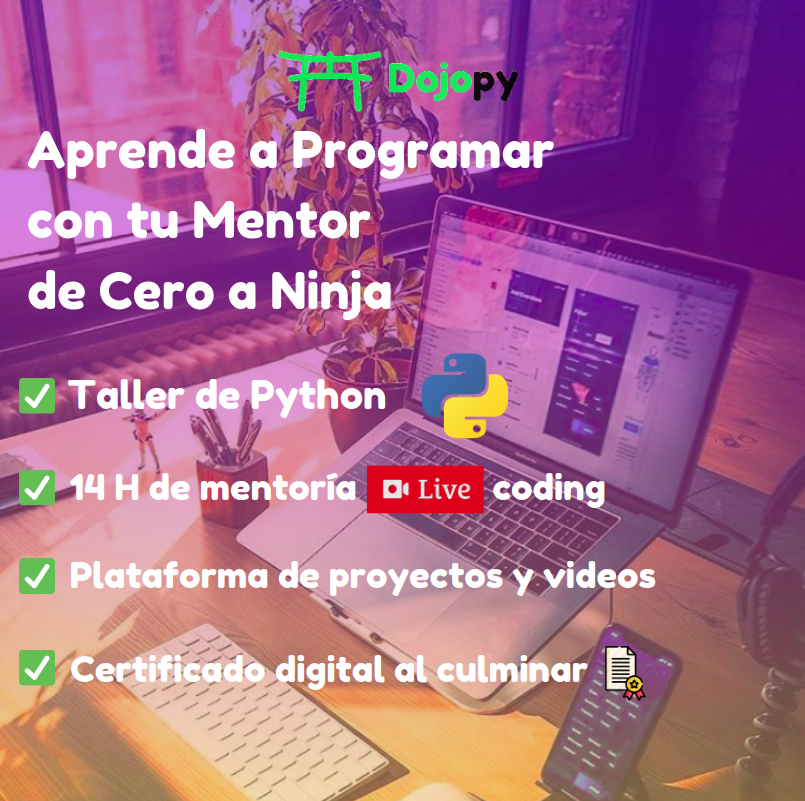
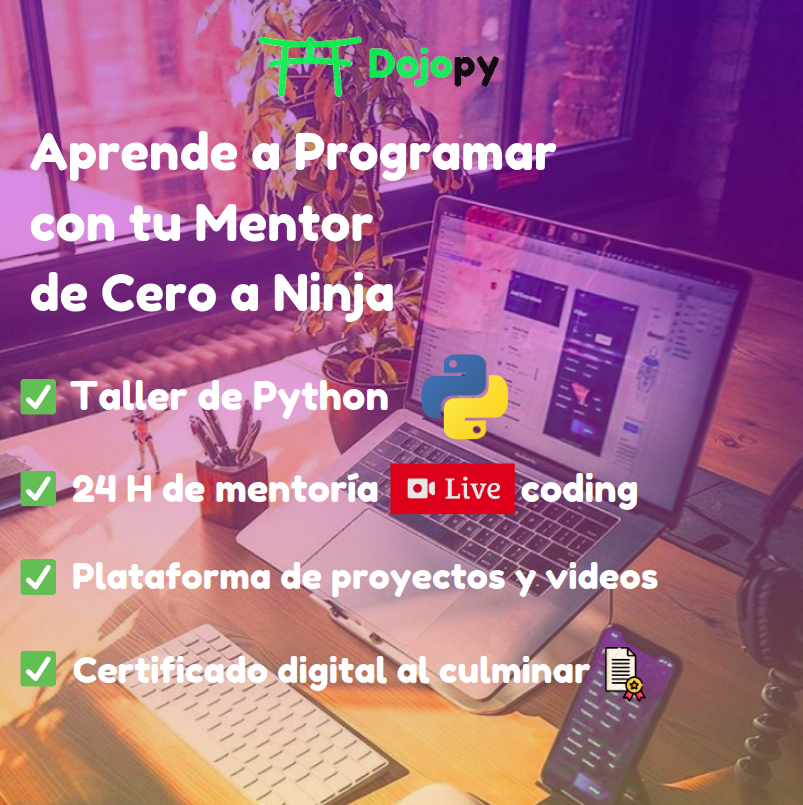
very good

diff --git a/templates/checkout.html b/templates/checkout.html
@@ -46,12 +46,17 @@
               <div class="invalid-feedback">
                   correo electrónico
               </div>
+
+              <div id="data_pagoefectivo">
+                  <br><br>
+                  <!-- <h2>codigo cip: 19192182918</h2> -->
+              </div>
           </div>
 
       </div>
       <div class="modal-footer">
         <!-- <button type="button" class="btn btn-secondary" data-dismiss="modal">Close</button> -->
-        <button type="button" class="btn btn-primary">Generar Código de Pago</button>
+        <button id="btn_pagoefectivo" type="button" class="btn btn-primary">Generar Código de Pago</button>
       </div>
     </div>
   </div>
@@ -99,14 +104,14 @@
                                                 </div>
                                             </div>
                                             <div class="col-md-6 mb-3">
-                                                <label for="lastName">Email</label>
-                                                <input type="text" class="form-control" id="lastName" placeholder="correo electrónico" value="" required="">
+                                                <label for="email_1">Email</label>
+                                                <input type="text" class="form-control" id="email_1" placeholder="correo electrónico" value="" required="">
                                                 <div class="invalid-feedback">
                                                     correo electrónico
                                                 </div>
                                             </div>
                                             <div class="col-md-6 mb-3">
-                                                <label for="lastName">Teléfono Móvil o Whatsapp</label>
+                                                <label for="phone">Teléfono Móvil o Whatsapp</label>
                                                 <input type="text" class="form-control" id="phone" placeholder="Teléfono Móvil o Whatsapp" value="" required="">
                                                 <div class="invalid-feedback">
                                                     Teléfono Móvil es requerido.
@@ -122,7 +127,7 @@
                                         <div class="d-block my-3">
 
                                             <div class="custom-control custom-radio">
-                                                <input id="credit" name="paymentMethod" type="radio" class="custom-control-input" checked="" required="">
+                                                <input id="credit" name="credit" type="radio" class="custom-control-input" checked="" required="">
                                                 <label style="cursor: pointer;" class="custom-control-label" for="credit"> TARJETA
                                                     <img style="margin-left:16px"  width="220" src="/static/base/img/metodo-pago.png" alt="">
 
@@ -130,14 +135,14 @@
                                             </div>
                                             <hr>
                                             <div class="custom-control custom-radio">
-                                                <input id="pago-efectivo" name="paymentMethod" type="radio" class="custom-control-input" required="">
-                                                <label style="cursor: pointer;" class="custom-control-label" for="pago-efectivo"> PAGO EFECTIVO
+                                                <input id="pago_efectivo" name="pago_efectivo" type="radio" class="custom-control-input" required="">
+                                                <label style="cursor: pointer;" class="custom-control-label" for="pago_efectivo"> PAGO EFECTIVO
                                                     <img style="margin-left:-4px" width="170" src="/static/base/img/logo-pago-efectivo.jpg" alt="">
                                                 </label>
                                             </div>
                                             <hr>
                                             <div class="custom-control custom-radio">
-                                                <input id="paypal" name="paymentMethod" type="radio" class="custom-control-input" required="">
+                                                <input id="paypal" name="paypal" type="radio" class="custom-control-input" required="">
                                                 <label style="cursor: pointer;" class="custom-control-label" for="paypal"> PAYPAL
                                                     <img style="margin-left:60px" width="165" src="/static/base/img/metodo-paypal.png" alt="">
                                                 </label>
@@ -244,9 +249,32 @@ function culqi() {
     }
 });
 
-    $('#buyButton').on('click', function(e) {
 
+$("#btn_pagoefectivo").click(function(){
+    email_2 = $('#email_2').val()
+    $.ajax({
+          type: "POST",
+          url : "/checkout",
+          enctype: 'multipart/form-data',
+          data: {"email_2": email_2, "type_payment": "pago_efectivo"},
+          encode: true
+      })
+      .done(function(data){
+        console.log('ok');
+        $('#data_pagoefectivo').html('<h1> payload api recibido</h1>');
+      })
+      .fail(function(data){
+         console.log('error');
+           });
+});
+
+    $('#buyButton').on('click', function(e) {
         $('#exampleModal').modal('show')
+        email_1 = $('#email_1').val()
+        document.getElementById("email_2").value = email_1;
+        // option_pagoefectivo = $('#pago-efectivo');
+        console.log(document.getElementById('pago_efectivo').checked);
+
 
         // Culqi.open();
         // e.preventDefault();

diff --git a/templates/taller_python_mobile.html b/templates/taller_python_mobile.html
@@ -73,7 +73,7 @@ Python es uno de los lenguajes de programación más valorados y usados a nivel 
                 <div class="content_wrapper">
                     <div class="blog_details">
                         <div class="content">
-                            <h3 class="title">¿Sabes cuanto gana un programador de Python?</h3>
+                            <h3 class="title">¿SABES CUANTO GANA UN PROGRAMADOR DE PYTHON?</h3>
                             <p style="font-size:1.1rem">
                                 En Latinoamérica, Europa y EEUU los sueldos anuales de un progamador de Python están
                                  alrededor de $25.000 usd ~ $57.000 usd ~ $116.000 usd. <br>
@@ -145,11 +145,11 @@ Python es uno de los lenguajes de programación más valorados y usados a nivel 
                                 <p style="font-size:1.1rem; margin:5px">Acceso ilimitado a la plataforma de proyectos, código y videos exclusivo de Dojopy para complementar la mentoría.</p>
                             </li>
                             <li>
-                                <p style="font-size:1.1rem; margin:5px">14 horas de mentoría </p>
+                                <p style="font-size:1.1rem; margin:5px">24 horas de mentoría </p>
                                 <ul class="unordered-list">
-                                    <li style="font-size:1.1rem;color:#888888"> Sesiones de 2 horas con el Mentor </li>
-                                    <li style="font-size:1.1rem;color:#888888"> 1 sesión/semana </li>
-                                    <li style="font-size:1.1rem;color:#888888"> 7 sesiones en total</li>
+                                    <li style="font-size:1.1rem;color:#666666"> Sesiones de 2 horas </li>
+                                    <li style="font-size:1.1rem;color:#666666"> 1 sesión/semana </li>
+                                    <li style="font-size:1.1rem;color:#666666"> Total 12 sesiones con el mentor </li>
                                 </ul>
                             </li>
 
@@ -165,9 +165,9 @@ Python es uno de los lenguajes de programación más valorados y usados a nivel 
 
                         </ul>
                         <br>
-                        <a href="https://{{uri_whatsapp}}.whatsapp.com/send?phone=51935489552&text=Hola%2C%20quisiera%20reservar%20la%20prueba%20gratuita%20del%20Taller%20Python." class="btn_1 d-block" style="margin:10px;font-size:1.1rem;text-align:center">
+                        <a href="https://{{uri_whatsapp}}.whatsapp.com/send?phone=51935489552&text=Hola%2C%20quisiera%20reservar%20la%mentoría%20gratuita" class="btn_1 d-block" style="margin:10px;font-size:1.1rem;text-align:center">
                             <b>
-                                Reservar Prueba Gratuita
+                                Reservar Mentoría Gratuita
                             </b>
                         </a>
                     </div>

diff --git a/templates/taller_python.html b/templates/taller_python.html
@@ -64,7 +64,7 @@ Python es uno de los lenguajes de programación más valorados y usados a nivel 
                 <div class="content_wrapper">
                     <div class="blog_details">
                         <div class="content">
-                            <h3 class="title">¿Sabes cuanto gana un programador de Python?</h3>
+                            <h3 class="title">¿SABES CUANTO GANA UN PROGRAMADOR DE PYTHON?</h3>
                             <p style="font-size:1.1rem">
                                 En Latinoamérica, Europa y EEUU los sueldos anuales de un progamador de Python están
                                  alrededor de $25.000 usd ~ $57.000 usd ~ $116.000 usd. <br>
@@ -205,11 +205,12 @@ Python es uno de los lenguajes de programación más valorados y usados a nivel 
                                 <p style="font-size:1.1rem; margin:5px">Acceso ilimitado la plataforma de proyectos, código y videos exclusivo de Dojopy para complementar la mentoría.</p>
                             </li>
                             <li>
-                                <p style="font-size:1.1rem; margin:5px">14 horas de mentoría </p>
+                                <p style="font-size:1.1rem; margin:5px">24 horas de mentoría </p>
                                 <ul class="unordered-list">
-                                    <li style="font-size:1.1rem;color:#666666"> Sesiones de 2 horas con el Mentor </li>
+                                    <li style="font-size:1.1rem;color:#666666"> Sesiones de 2 horas </li>
                                     <li style="font-size:1.1rem;color:#666666"> 1 sesión/semana </li>
-                                    <li style="font-size:1.1rem;color:#666666"> 7 sesiones en total</li>
+                                    <li style="font-size:1.1rem;color:#666666"> Total 12 sesiones con el mentor </li>
+
                                 </ul>
                             </li>
 
@@ -224,9 +225,9 @@ Python es uno de los lenguajes de programación más valorados y usados a nivel 
 
                         </ul>
                         <br>
-                        <a href="https://{{uri_whatsapp}}.whatsapp.com/send?phone=51935489552&text=Hola%2C%20quisiera%20reservar%20la%20prueba%20gratuita%20del%20Taller%20Python." class="btn_1 d-block" style="margin:10px;font-size:1.1rem;text-align:center">
+                        <a href="https://{{uri_whatsapp}}.whatsapp.com/send?phone=51935489552&text=Hola%2C%20quisiera%20reservar%20la%20mentoría%20gratuita." class="btn_1 d-block" style="margin:10px;font-size:1.1rem;text-align:center">
                             <b>
-                                Reservar Prueba Gratuita
+                                Reservar Mentoría Gratuita
                             </b>
                         </a>
                     </div>

diff --git a/templates/item_product.html b/templates/item_product.html
@@ -13,14 +13,14 @@
                         </div>
 
                         <div class="col-11" style="color: #0c2e60;font-weight: 550;text-align: -webkit-center;padding: 5px;">
-                            <img height="23px" src="/static/base/img/live-code.png" alt="">  coding
+                            <img height="25px" src="/static/base/img/live-code.png" alt="">  coding
 
 
                         </div>
                         <div class="col-11">
                         </div>
                         <h4 style="font-size:1.4rem;font-weight:500; padding:5px;text-align-last:center" >
-                            Duración: <br>2 Meses de Mentoría <br> <p style="color:#0c2e60;font-size:1.1rem;font-weight:500; ">(7 Semanas)</p>
+                            Duración: 3 Meses
                         </h4>
 
                         <div class="col-11" style="text-align: center; padding-bottom:10px">
@@ -34,9 +34,9 @@
                 </div>
             </div>
             <br>
-            <a href="https://{{uri_whatsapp}}.whatsapp.com/send?phone=51935489552&text=Hola%2C%20quisiera%20reservar%20la%20prueba%20gratuita%20del%20Taller%20Python." class="btn_1 d-block" style="margin:10px;font-size:1.1rem;text-align:center">
+            <a href="https://{{uri_whatsapp}}.whatsapp.com/send?phone=51935489552&text=Hola%2C%20quisiera%20reservar%20la%20mentoría%20gratuita." class="btn_1 d-block" style="margin:10px;font-size:1.1rem;text-align:center">
                 <b>
-                    Reservar Prueba Gratuita
+                    Reservar Mentoría Gratuita
                 </b>
             </a>
             <!-- <a href="#" class="btn_1 d-block" style="margin:10px">Comprar Ahora</a> -->

diff --git a/templates/base.html b/templates/base.html
@@ -334,7 +334,7 @@
                 </div>
                 <div>
                     <br>
-                    <a target="_blank" href="https://{{uri_whatsapp}}.whatsapp.com/send?phone=51935489552&text=Hola%21%20quisiera%20m%C3%A1s%20informaci%C3%B3n%20sobre%20el%20Taller%20Python.">
+                    <a target="_blank" href="https://{{uri_whatsapp}}.whatsapp.com/send?phone=51935489552&text=Hola%21%20quisiera%20m%C3%A1s%20informaci%C3%B3n%20sobre%20la%20mentoría%20del%20Taller%20Python.">
                         <i style="padding:5px;margin:20px;font-size:4rem; color:green" class="fab fa-whatsapp" aria-hidden="true"></i>
                     </a>
 
@@ -351,7 +351,7 @@
     {% endblock %}
 
 
-        <a href="https://{{uri_whatsapp}}.whatsapp.com/send?phone=51935489552&text=Hola%21%20quisiera%20m%C3%A1s%20informaci%C3%B3n%20sobre%20el%20Taller%20Python." class="float" target="_blank">
+        <a href="https://{{uri_whatsapp}}.whatsapp.com/send?phone=51935489552&text=Hola%21%20quisiera%20m%C3%A1s%20informaci%C3%B3n%20sobre%20la%20mentoría%20del%20Taller%20Python." class="float" target="_blank">
             <i class="fab fa-whatsapp my-float"></i>
         </a>
 

diff --git a/mentor/views.py b/mentor/views.py
@@ -8,18 +8,18 @@ TK_DETECT_COUNTRY = 'dfc4899fc100cb167072406ee001ac81'
 
 
 CURRENCY_CONVERT = {
-    'PE': {'mount': '159', 'simbol': 'S/. '},
-    'CO': {'mount': '163,000', 'simbol': '$ '},
-    'EC': {'mount': '1,200,000', 'simbol': '$ '},
-    'MX': {'mount': '917', 'simbol': '$ '},
-    'SV': {'mount': '412,000', 'simbol': '$ '},
+    'PE': {'mount': '170', 'simbol': 'S/. '},
+    'CO': {'mount': '171,000', 'simbol': '$ '},
+    'EC': {'mount': '1,269,000', 'simbol': '$ '},
+    'MX': {'mount': '970', 'simbol': '$ '},
+    'SV': {'mount': '436,000', 'simbol': '$ '},
     'ES': {'mount': '45', 'simbol': '€'},
-    'AR': {'mount': '2,850', 'simbol': '$'},
-    'CL': {'mount': '37,500', 'simbol': '$'},
-    'BO': {'mount': '327', 'simbol': '$'},
-    'PY': {'mount': '303,270', 'simbol': '$'},
-    'UY': {'mount': '1,775', 'simbol': '$'},
-    'NI': {'mount': '1,595', 'simbol': '$'},
+    'AR': {'mount': '2,990', 'simbol': '$'},
+    'CL': {'mount': '39,800', 'simbol': '$'},
+    'BO': {'mount': '344', 'simbol': '$'},
+    'PY': {'mount': '323,200', 'simbol': '$'},
+    'UY': {'mount': '1,880', 'simbol': '$'},
+    'NI': {'mount': '1,689', 'simbol': '$'},
 }
 
 def get_info_ip(ip):
@@ -41,7 +41,7 @@ def get_currency(country_code):
         mount = CURRENCY_CONVERT[country_code]['mount']
         simbol = CURRENCY_CONVERT[country_code]['simbol']
     else:
-        mount = '49'
+        mount = '51'
         simbol = '$'
     return mount, simbol
 
